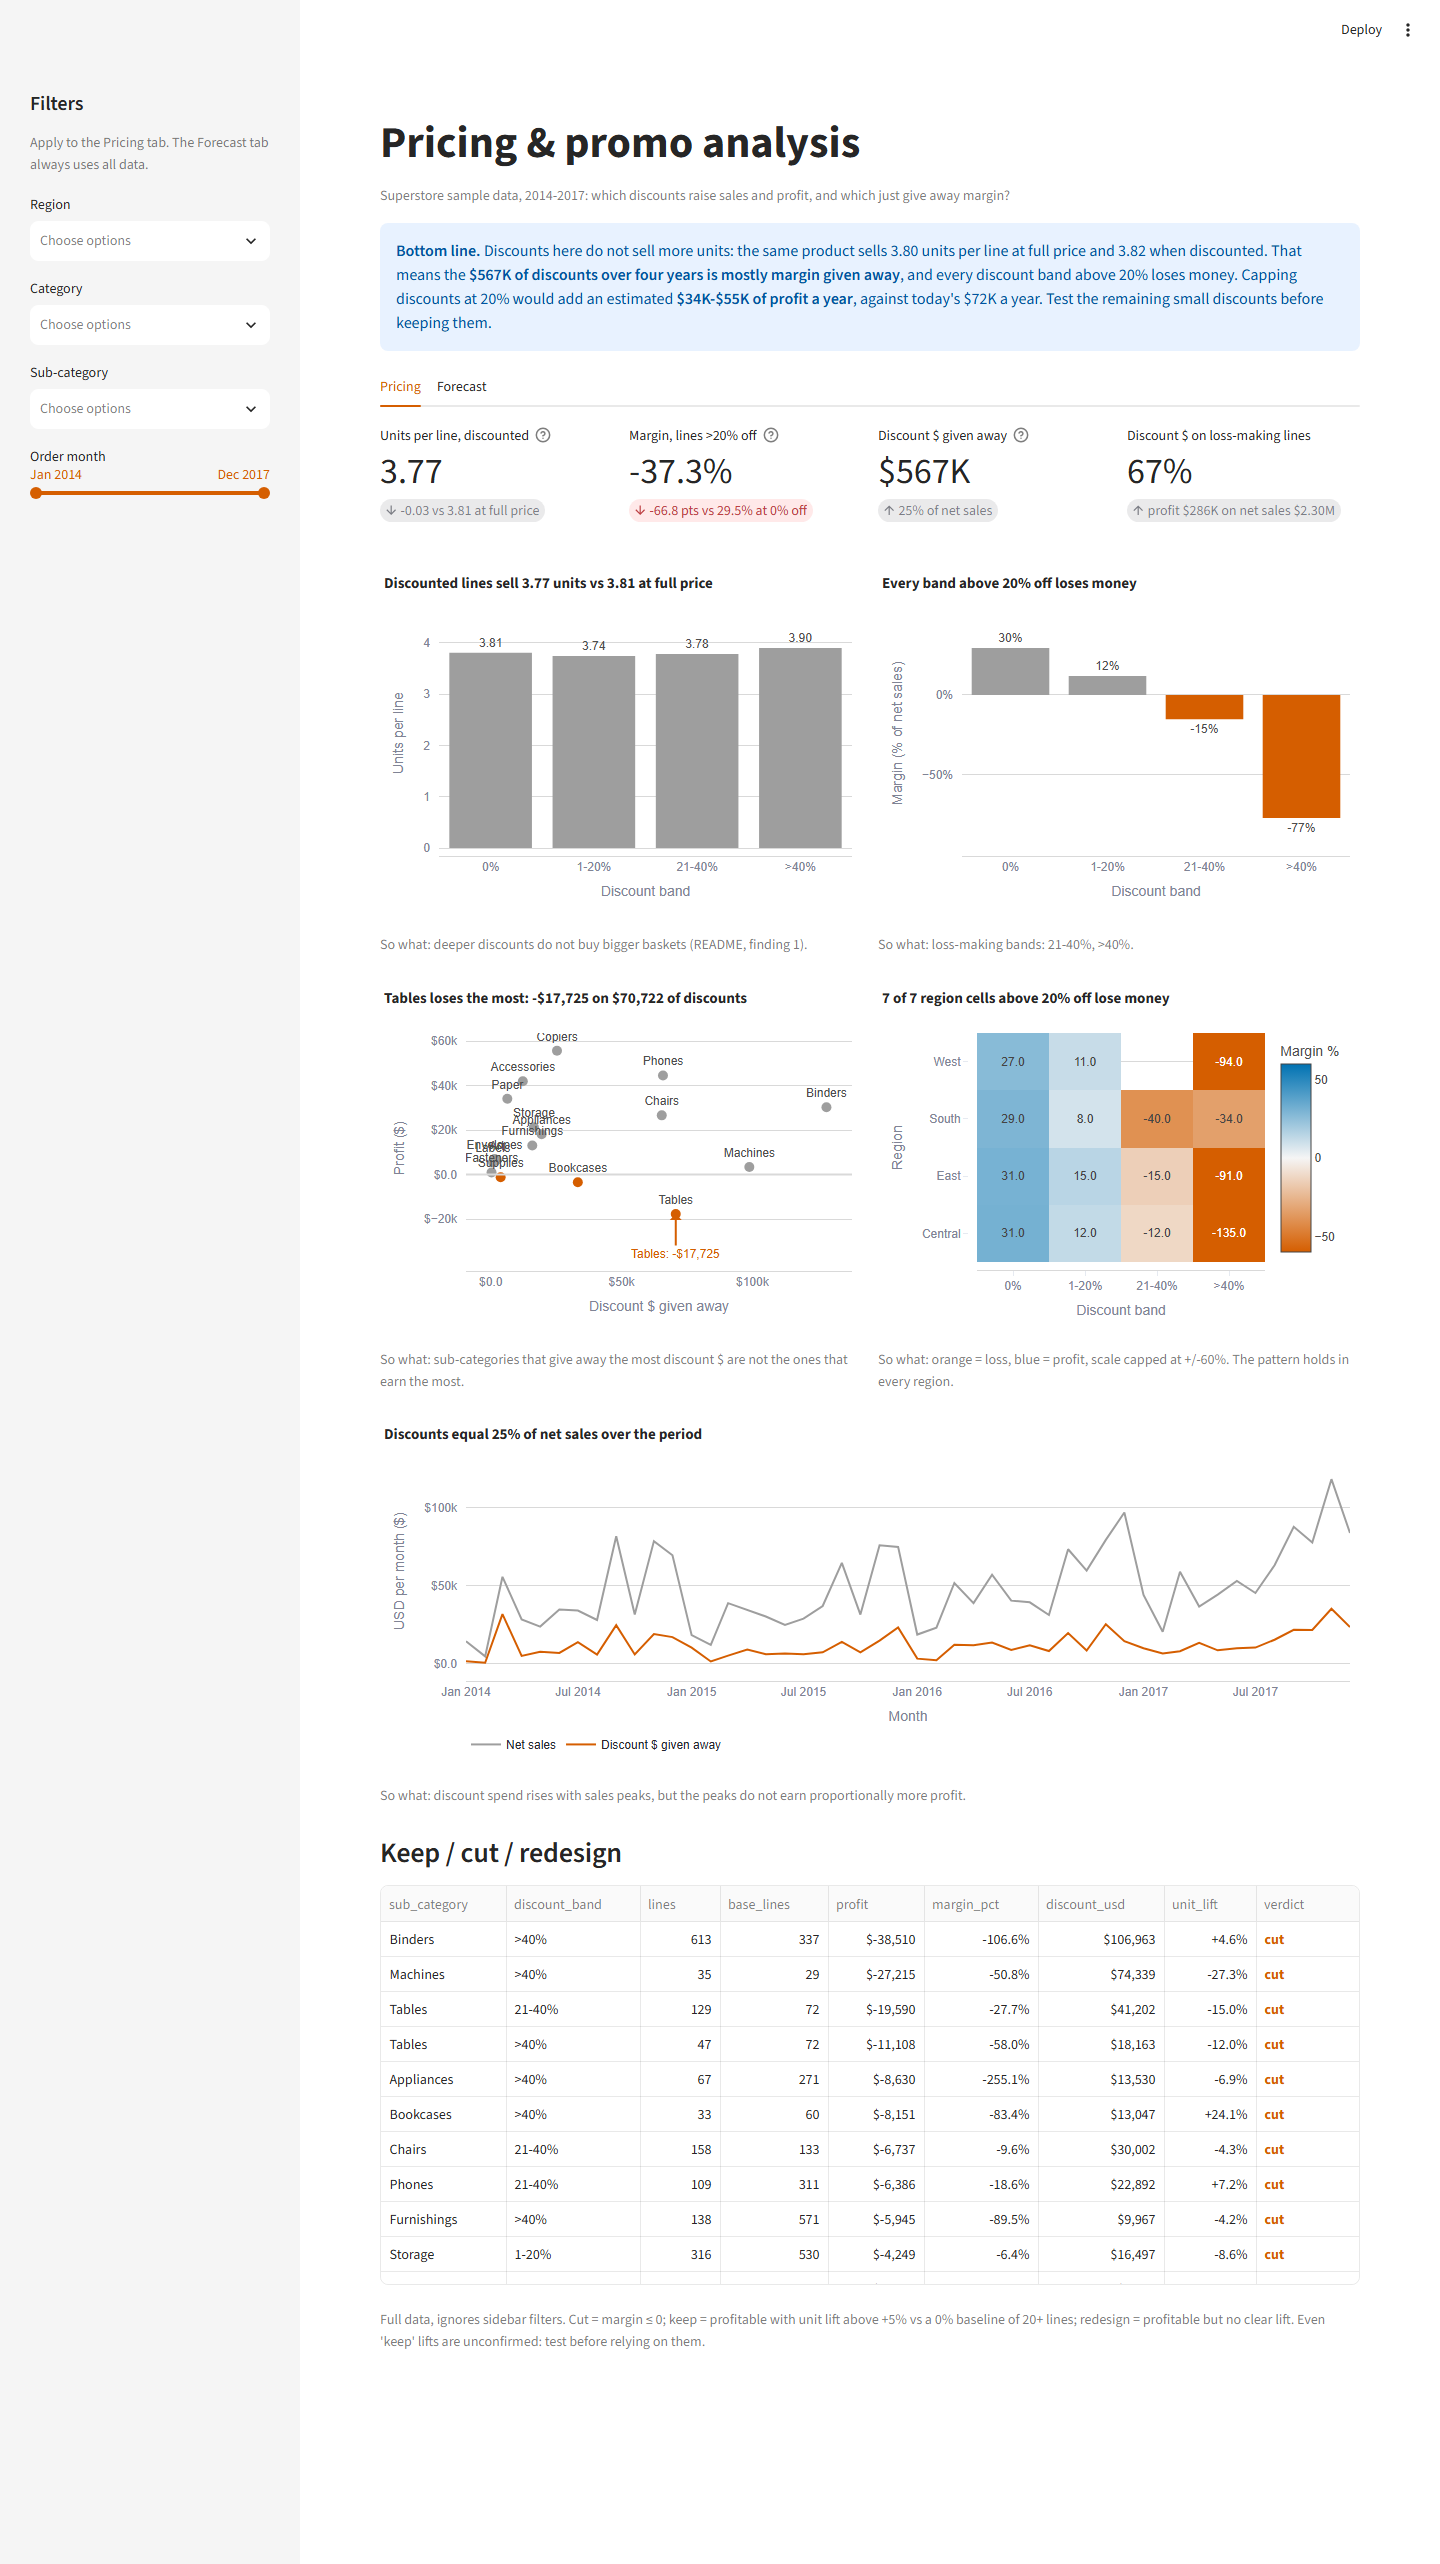
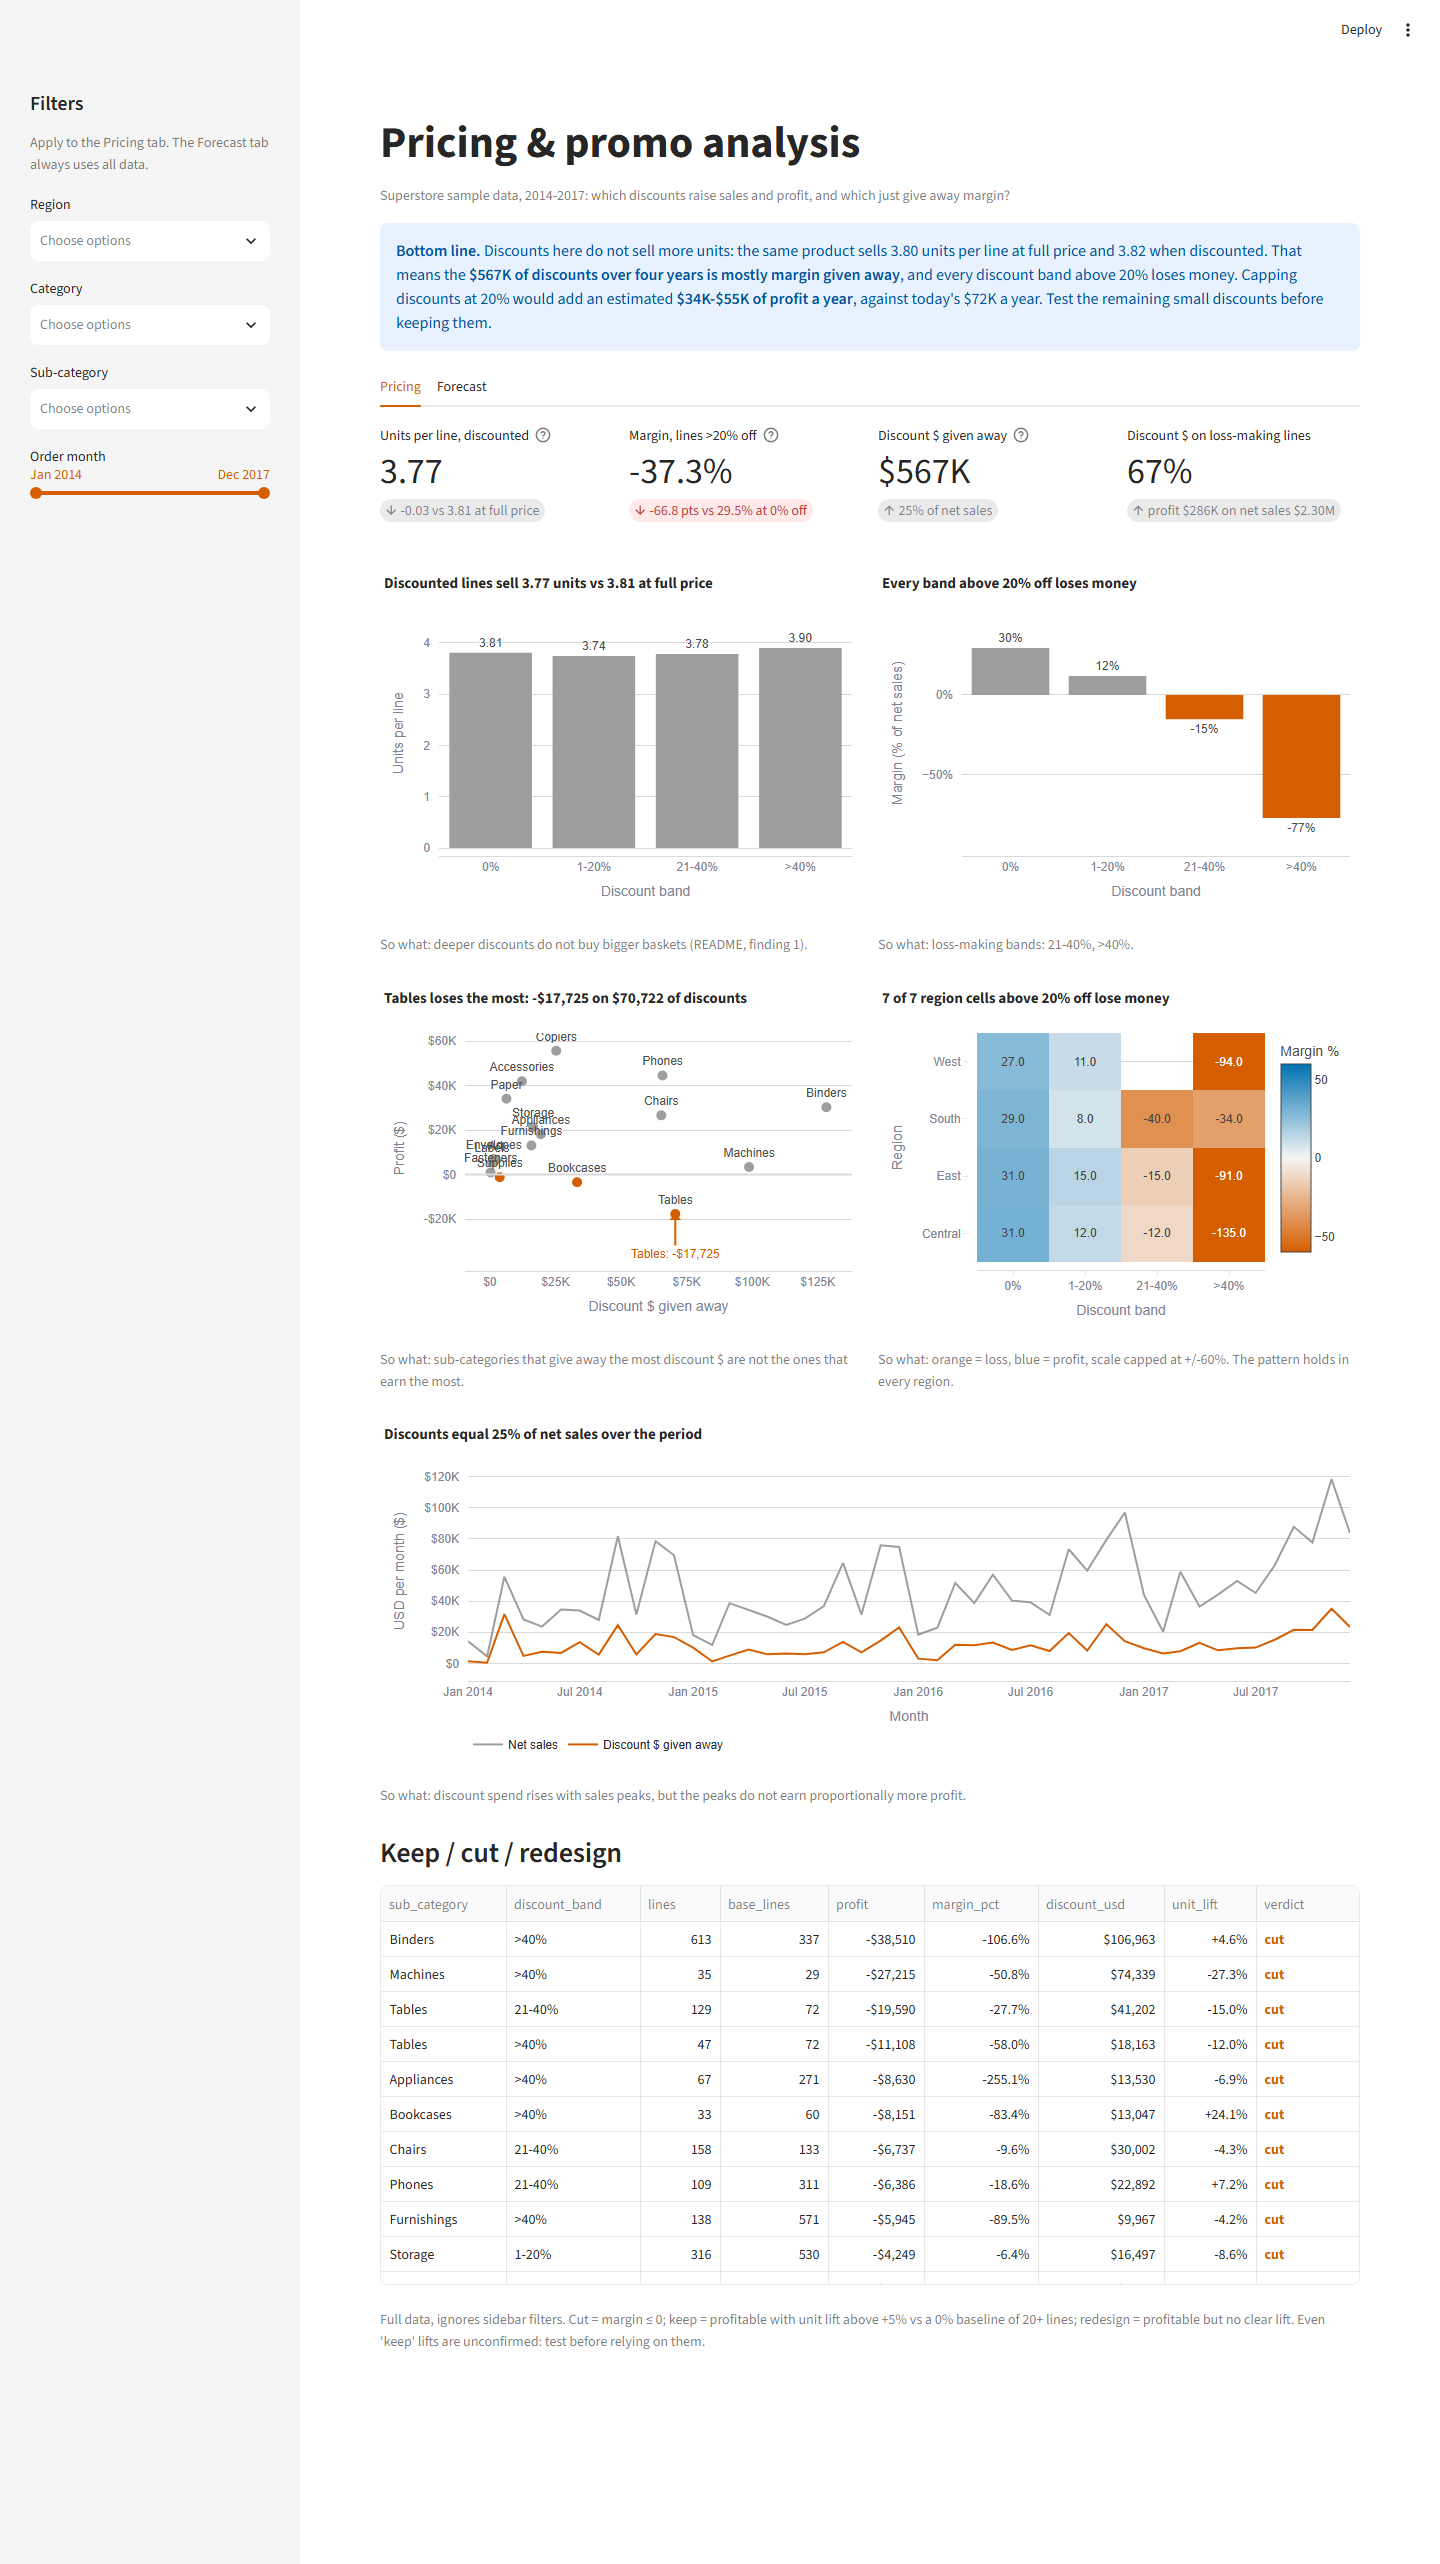
Round displayed dollars half up everywhere; label Plotly dollar axes like the PNGs
One rounding rule (half away from zero) for every displayed dollar figure in
the app, README and static PNGs: the ETS profit MAE of 3304.5 now shows as
$3,305 everywhere. It was the only displayed dollar value on an exact .5 tie.
Plotly dollar axes now read -$20K / $0 / $20K instead of $-20k / $0.0.
No analysis or outputs changed.

diff --git a/charts.py b/charts.py
@@ -1,4 +1,7 @@
 """Plotly chart helpers for app.py. One accent for the key finding, greys for everything else."""
+import math
+from decimal import ROUND_HALF_UP, Decimal
+
 import pandas as pd
 import plotly.graph_objects as go
 
@@ -8,8 +11,30 @@ MODEL = {"snaive": "Seasonal naive", "ets_add_notrend": "ETS (A,N,A)"}
 SERIES = {"sales": "Net sales", "profit": "Profit"}
 
 
+def half_up(v, nd=0):
+    """Round half away from zero (3304.5 -> 3305): the one rounding rule for every displayed figure."""
+    return float(Decimal(repr(float(v))).quantize(Decimal(1).scaleb(-nd), ROUND_HALF_UP))
+
+
 def usd(v):
+    v = half_up(v)
     return f"-${-v:,.0f}" if v < 0 else f"${v:,.0f}"
+
+
+def usdk(v, nd=1):
+    """$K label as in the static PNGs: -$20K, $0, $2.5K."""
+    k = half_up(v / 1e3, nd)
+    return "$0" if k == 0 else f"{'-' if k < 0 else ''}${abs(k):,.{nd}f}".removesuffix(".0") + "K"
+
+
+def usd_ticks(lo, hi):
+    """Plotly tickvals/ticktext for a dollar axis spanning lo..hi (and 0), about 5 steps of 1/2/2.5/5 x 10^n."""
+    lo, hi = min(lo, 0), max(hi, 0)
+    span = max(hi - lo, 1)
+    step = 10 ** math.floor(math.log10(span / 5))
+    step *= next(m for m in (1, 2, 2.5, 5, 10) if span / (step * m) <= 6)
+    ticks = [i * step for i in range(math.floor(lo / step), math.ceil(hi / step) + 1)]
+    return dict(tickvals=ticks, ticktext=[usdk(t) for t in ticks])
 
 
 def finish(fig, title, x, y, h=360, **kw):
@@ -39,8 +64,8 @@ def subcat(g, title):
                                marker=dict(size=10, color=[ACC if p < 0 else GREY for p in g["profit"]]),
                                hovertemplate="%{text}<br>Discount $ %{x:$,.0f}<br>Profit %{y:$,.0f}<extra></extra>"))
     fig.add_hline(y=0, line_color=GRID)
-    fig.update_xaxes(tickprefix="$", tickformat=",.2s")
-    fig.update_yaxes(tickprefix="$", tickformat=",.2s")
+    fig.update_xaxes(**usd_ticks(g["discount_usd"].min(), g["discount_usd"].max()))
+    fig.update_yaxes(**usd_ticks(g["profit"].min(), g["profit"].max()))
     note(fig, worst["discount_usd"], worst["profit"], f"{worst['sub_category']}: {usd(worst['profit'])}", ay=40)
     return finish(fig, title, "Discount $ given away", "Profit ($)")
 
@@ -57,7 +82,7 @@ def monthly(m, title):
     for col, name, c in [("sales", "Net sales", GREY), ("discount_usd", "Discount $ given away", ACC)]:
         fig.add_scatter(x=m["order_month"], y=m[col], name=name, line=dict(color=c, width=2), mode="lines",
                         hovertemplate="%{x|%b %Y}<br>" + name + " %{y:$,.0f}<extra></extra>")
-    fig.update_yaxes(tickprefix="$", tickformat=",.2s")
+    fig.update_yaxes(**usd_ticks(0, m[["sales", "discount_usd"]].max().max()))
     return finish(fig, title, "Month", "USD per month ($)")
 
 
@@ -70,7 +95,8 @@ def backtest(b, title):
         fig.add_trace(go.Bar(x=d.model.map(MODEL), y=d.mae, text=d.mae.map(usd), textposition="outside", cliponaxis=False,
                              marker_color=[ACC if m != "snaive" else GREY for m in d.model], customdata=d[["mape_pct"]],
                              hovertemplate="%{x}<br>MAE %{y:$,.0f}<br>MAPE %{customdata[0]:.1f}%<extra></extra>"), row=1, col=i)
-    fig.update_yaxes(tickprefix="$", tickformat=",.2s", rangemode="tozero")
+        fig.update_yaxes(**usd_ticks(0, d.mae.max()), row=1, col=i)
+    fig.update_yaxes(rangemode="tozero")
     fig.update_layout(showlegend=False)
     return finish(fig, title, None, "MAE on 6 held-out months ($)")
 
@@ -83,7 +109,7 @@ def forecast(hist, f, series, title):
                     hovertemplate="%{x|%b %Y}<br>Actual %{y:$,.0f}<extra></extra>")
     fig.add_scatter(x=f.month, y=f.point, name="Forecast", mode="lines", line=dict(color=ACC, width=2.5), customdata=f[["lo95", "hi95"]],
                     hovertemplate="%{x|%b %Y}<br>Forecast %{y:$,.0f}<br>95%: %{customdata[0]:$,.0f} to %{customdata[1]:$,.0f}<extra></extra>")
-    fig.update_yaxes(tickprefix="$", tickformat=",.2s")
+    fig.update_yaxes(**usd_ticks(min(f.lo95.min(), hist[series].min()), max(f.hi95.max(), hist[series].max())))
     return finish(fig, title, "Month", f"{SERIES[series]} per month ($)")
 
 
@@ -94,3 +120,10 @@ def scenario(summ, title):
                            hovertemplate="%{x}<br>Margin %{y:.1f}%<br>Profit %{customdata[0]:$,.0f} on sales %{customdata[1]:$,.0f}<extra></extra>"))
     fig.update_yaxes(ticksuffix="%", rangemode="tozero")
     return finish(fig, title, "Scenario (Jan-Jun 2018)", "Margin (% of net sales)")
+
+
+if __name__ == "__main__":
+    assert usd(3304.5) == "$3,305" and usd(-2.5) == "-$3" and usd(3304.4) == "$3,304"
+    assert [usdk(v) for v in (-20000, 0, 2500, 2450, 120000)] == ["-$20K", "$0", "$2.5K", "$2.5K", "$120K"]
+    assert usd_ticks(-5000, 20000)["ticktext"] == ["-$5K", "$0", "$5K", "$10K", "$15K", "$20K"]
+    print("charts ok")

diff --git a/make_figures.py b/make_figures.py
@@ -6,13 +6,14 @@ import pandas as pd
 matplotlib.use("Agg")
 import matplotlib.pyplot as plt
 
+from charts import usd, usdk
+
 ACC, GREY, TXT, GRID = "#D55E00", "#9E9E9E", "#4D4D4D", "#D9D9D9"
 BANDS = ["0%", "1-20%", "21-40%", ">40%"]
 plt.rcParams.update({"font.family": "sans-serif", "text.color": TXT, "axes.labelcolor": TXT, "xtick.color": TXT, "ytick.color": TXT,
                      "axes.edgecolor": GRID, "axes.spines.top": False, "axes.spines.right": False, "axes.grid": True,
                      "grid.color": GRID, "axes.axisbelow": True, "figure.dpi": 130})
 o = lambda n: pd.read_csv(f"outputs/{n}.csv")
-usdk = lambda x, _=None: f"-${-x / 1e3:,.0f}K" if x < 0 else f"${x / 1e3:,.0f}K"
 
 
 def save(fig, name, title):
@@ -52,8 +53,8 @@ for ax, s in zip(axs, NAMES):
     d = b[b.series == s].sort_values("mae", ascending=False)
     ax.bar(d.model.map(LABEL), d.mae, color=[GREY if m == "snaive" else ACC for m in d.model])
     for i, v in enumerate(d.mae):
-        ax.text(i, v, f"${v:,.0f}", ha="center", va="bottom")
-    ax.yaxis.set_major_formatter(usdk)
+        ax.text(i, v, usd(v), ha="center", va="bottom")
+    ax.yaxis.set_major_formatter(lambda x, _: usdk(x))
     ax.set(title=NAMES[s], ylabel="MAE on 6 held-out months")
     ax.margins(y=0.15)
 save(fig, "backtest", "ETS cuts 6-month holdout error vs seasonal naive")
@@ -64,10 +65,10 @@ for ax, s in zip(axs, NAMES):
     ax.fill_between(d.month, d.lo95, d.hi95, color=GRID, label="95% interval")
     ax.plot(hist.order_month, hist[s], color=GREY, label="Actual")
     ax.plot(d.month, d.point, color=ACC, lw=2, label="Forecast")
-    ax.yaxis.set_major_formatter(usdk)
+    ax.yaxis.set_major_formatter(lambda x, _: usdk(x))
     ax.xaxis.set_major_locator(matplotlib.dates.YearLocator())
     ax.xaxis.set_major_formatter(matplotlib.dates.DateFormatter("%Y"))
-    ax.set(title=f"{NAMES[s]}: Jan-Jun 2018 forecast {usdk(d.point.sum())}", ylabel="$ per month")
+    ax.set(title=f"{NAMES[s]}: Jan-Jun 2018 forecast {usdk(d.point.sum(), 0)}", ylabel="$ per month")
 axs[0].legend(frameon=False, fontsize=8, loc="upper left")
 save(fig, "forecast", "Six-month forecast with 95% prediction intervals")
 

diff --git a/app.py b/app.py
@@ -70,11 +70,11 @@ with tab_p:
                     help="All lines. The Bottom line's 3.80 vs 3.82 is the matched-product test (outputs/stats_lift.csv)")
         k[1].metric("Margin, lines >20% off", f"{mg(m40):.1f}%", f"{mg(m40) - mg(m0):+.1f} pts vs {mg(m0):.1f}% at 0% off",
                     help="Unfiltered: (profit of the 21-40% and >40% bands) / (their net sales), outputs/02_by_discount_band.csv")
-        k[2].metric("Discount $ given away", f"${f['discount_usd'].sum() / 1e3:,.0f}K",
+        k[2].metric("Discount $ given away", C.usdk(f['discount_usd'].sum(), 0),
                     f"{f['discount_usd'].sum() / f['sales'].sum() * 100:.0f}% of net sales", delta_color="off",
                     help="List-price revenue minus net sales (net sales = Sales as recorded, after discount)")
         k[3].metric("Discount $ on loss-making lines", f"{loss_share:.0f}%",
-                    esc(f"profit ${f['profit'].sum() / 1e3:,.0f}K on net sales ${f['sales'].sum() / 1e6:,.2f}M"), delta_color="off")
+                    esc(f"profit {C.usdk(f['profit'].sum(), 0)} on net sales ${C.half_up(f['sales'].sum() / 1e6, 2):,.2f}M"), delta_color="off")
         st.write("")
 
         c1, c2 = st.columns(2)
@@ -113,7 +113,7 @@ with tab_p:
         colors = {"cut": C.ACC, "keep": C.BLUE, "redesign": C.GREY}
         st.dataframe(
             kc.style.map(lambda v: f"color: {colors.get(v, 'inherit')}; font-weight: bold", subset=["verdict"])
-              .format({"lines": "{:,}", "profit": "${:,.0f}", "margin_pct": "{:.1f}%", "discount_usd": "${:,.0f}",
+              .format({"lines": "{:,}", "profit": C.usd, "margin_pct": "{:.1f}%", "discount_usd": C.usd,
                        "unit_lift": "{:+.1%}", "base_lines": "{:,.0f}"}),
             hide_index=True, width="stretch")
         st.caption("Full data, ignores sidebar filters. Cut = margin <= 0; keep = profitable with unit lift above +5% vs a 0% baseline of 20+ lines; "

diff --git a/README.md b/README.md
@@ -56,7 +56,7 @@ At the bounds, recommendations 1 and 2 together add $36K–$63K a year, set agai
 | Series | Seasonal naive MAE | ETS MAE | MAE change | Seasonal naive MAPE | ETS MAPE |
 |---|---|---|---|---|---|
 | Net sales | $20,460 | $17,384 | −15.0% | 25.4% | 21.1% |
-| Profit | $5,535 | $3,304 | −40.3% | 62.2% | 37.6% |
+| Profit | $5,535 | $3,305 | −40.3% | 62.2% | 37.6% |
 
   Profit MAPE is unstable because some months have near-zero or negative profit, so MAE is the metric to use. The selection rule is MAE on this single 6-month holdout.
 
